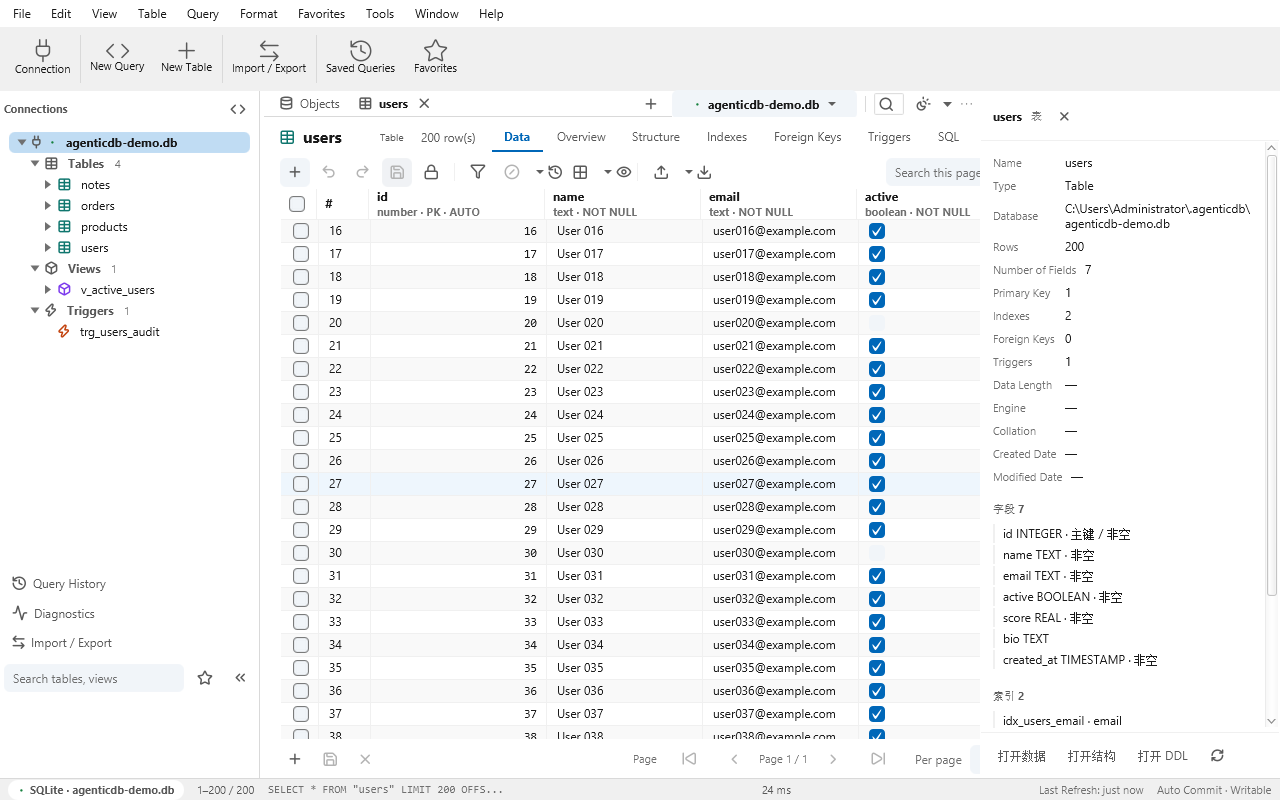
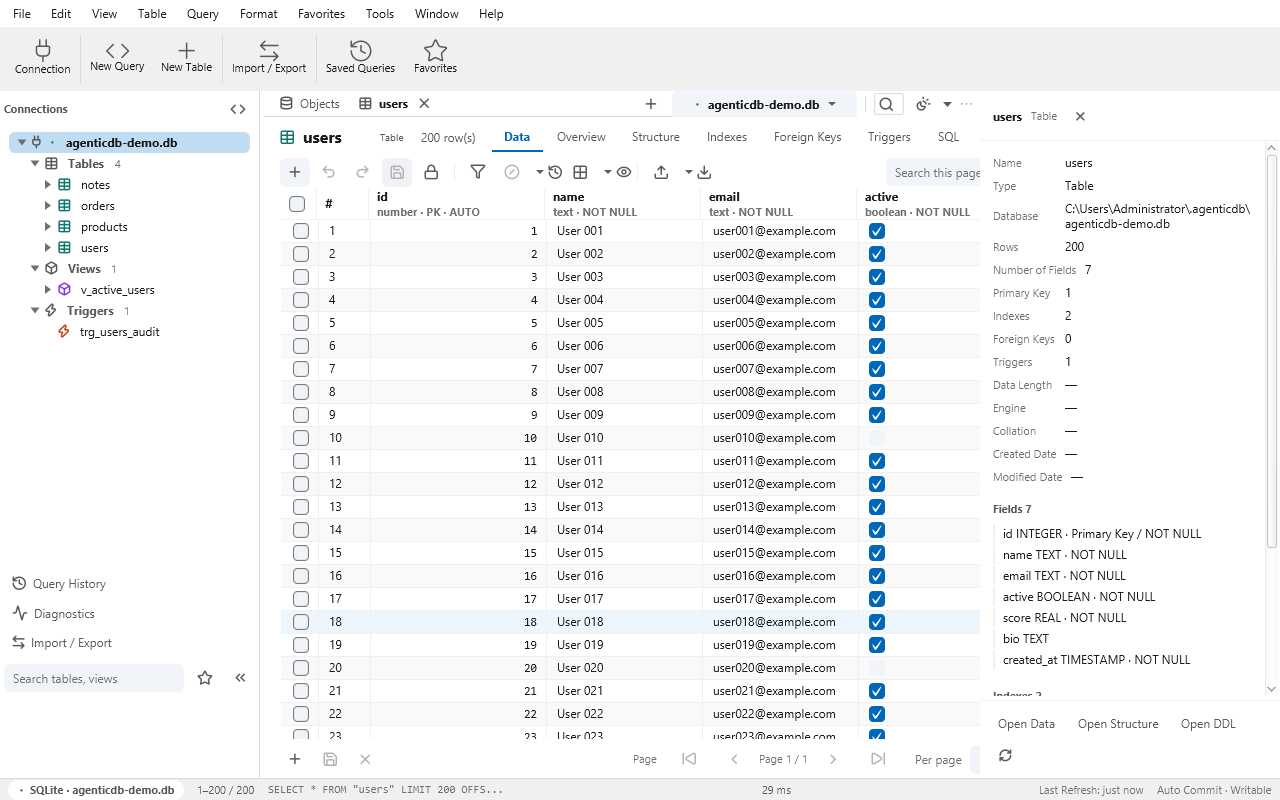
feat(ui): R34 N1-b 第十九批 —— 对象详情面板抽干净（29 → 0），棘轮 327 → 298
ObjectDetailsPanel(27) + ObjectHeader(2) 的汉字字面量全部进资源包：
新增 11 键 details.*，复用 15 个既有键（双侧全等才复用）——
类型标签走 detail.kind.table|view + object.kind.trigger|function|event + category.database，
节标题走 detail.indexes|foreignKeys|triggers + newtable.tab.fields，
动作按钮走 action.object.open-data|open-structure，标记走 detail.primaryKey + grid.head.notNull。

⭐ p2-details 实拍抓到一处英文截字：窄栏里三颗等分按钮被压成
「Open D… / Open Struct… / Open D…」—— 中文「打开数据」4 字撑得住，英文撑不住。
页脚由 HBox 改 FlowPane（装不下换行），重拍后 Open Data / Open Structure / Open DDL 全读得完。

- ObjectDetailsPanelTest 7 处 + ObjectHeaderAndTabsTest 1 处文案断言重钉为 I18n.t(...)；
- I18nAuditTest CJK_CEILING 327 → 298（实测）；
- 键数口径纠正：严格数 key 行 en/zh 各 1238（对称），此前文档口径少 1。

门禁：./mvnw -o test 实测 1180 条 / 150 组 / 134 类 / 0 失败 / 48 环境跳过。
push 仍未授权。

diff --git a/ui/adb-ui-shell/src/main/java/io/agenticdb/ui/shell/ObjectDetailsPanel.java b/ui/adb-ui-shell/src/main/java/io/agenticdb/ui/shell/ObjectDetailsPanel.java
@@ -2,12 +2,14 @@ package io.agenticdb.ui.shell;
 
 import io.agenticdb.introspect.SchemaService;
 import io.agenticdb.introspect.SchemaService.ObjectKind;
+import io.agenticdb.ui.I18n;
 import io.agenticdb.ui.Icons;
 import javafx.geometry.Insets;
 import javafx.geometry.Pos;
 import javafx.scene.control.Button;
 import javafx.scene.control.Label;
 import javafx.scene.control.ScrollPane;
+import javafx.scene.layout.FlowPane;
 import javafx.scene.layout.HBox;
 import javafx.scene.layout.Priority;
 import javafx.scene.layout.VBox;
@@ -61,17 +63,17 @@ public final class ObjectDetailsPanel extends VBox {
         }
 
         public String typeLabel() {
-            return kind == null ? "数据库" : kindLabel(kind);
+            return kind == null ? I18n.t("category.database") : kindLabel(kind);
         }
 
         private static String kindLabel(ObjectKind kind) {
             return switch (kind) {
-                case TABLE -> "表";
-                case VIEW -> "视图";
-                case TRIGGER -> "触发器";
-                case FUNCTION -> "函数";
-                case PROCEDURE -> "过程";
-                case EVENT -> "事件";
+                case TABLE -> I18n.t("detail.kind.table");
+                case VIEW -> I18n.t("detail.kind.view");
+                case TRIGGER -> I18n.t("object.kind.trigger");
+                case FUNCTION -> I18n.t("object.kind.function");
+                case PROCEDURE -> I18n.t("details.kind.procedure");
+                case EVENT -> I18n.t("object.kind.event");
             };
         }
     }
@@ -138,12 +140,12 @@ public final class ObjectDetailsPanel extends VBox {
     private final VBox notes = new VBox(4);
     // U15：动词与代码、与其他入口统一成「打开」——「查看数据 / 打开表」说的是同一件事，
     // 却给了用户两个词，让人怀疑是两个去处。
-    private final Button openData = new Button("打开数据");
-    private final Button openStructure = new Button("打开结构");
-    private final Button openDdl = new Button("打开 DDL");
+    private final Button openData = new Button(I18n.t("action.object.open-data"));
+    private final Button openStructure = new Button(I18n.t("action.object.open-structure"));
+    private final Button openDdl = new Button(I18n.t("details.openDdl"));
     private final Button refresh = new Button();
-    private final Label empty = new Label("选择左侧的一个数据库对象，在这里查看它的概况。");
-    private final Label loading = new Label("正在读取元数据…");
+    private final Label empty = new Label(I18n.t("details.empty"));
+    private final Label loading = new Label(I18n.t("details.loading"));
     private final Label error = new Label();
 
     private Loader loader = (subject, onLoaded, onError) -> onLoaded.accept(null);
@@ -179,8 +181,8 @@ public final class ObjectDetailsPanel extends VBox {
 
         close.setGraphic(Icons.of(Icons.Icon.CLOSE, Icons.SIZE_LABEL));
         close.getStyleClass().addAll("adb-icon-button", "adb-details-panel__close");
-        close.setTooltip(new javafx.scene.control.Tooltip("隐藏详情面板"));
-        close.setAccessibleText("隐藏详情面板");
+        close.setTooltip(new javafx.scene.control.Tooltip(I18n.t("details.closeTip")));
+        close.setAccessibleText(I18n.t("details.closeTip"));
         close.setOnAction(event -> setVisible(false));
 
         HBox header = new HBox(8, title, subtitle, close);
@@ -203,16 +205,16 @@ public final class ObjectDetailsPanel extends VBox {
         openDdl.setOnAction(event -> actions.openDdl(subject));
         refresh.setGraphic(Icons.of(Icons.Icon.REFRESH, Icons.SIZE_LABEL));
         refresh.getStyleClass().addAll("adb-icon-button", "adb-details-panel__refresh");
-        refresh.setTooltip(new javafx.scene.control.Tooltip("重新读取该对象的元数据"));
-        refresh.setAccessibleText("刷新对象详情");
+        refresh.setTooltip(new javafx.scene.control.Tooltip(I18n.t("details.refreshTip")));
+        refresh.setAccessibleText(I18n.t("details.refreshAccessible"));
         refresh.setOnAction(event -> reload());
 
-        HBox footer = new HBox(4, openData, openStructure, openDdl, refresh);
+        // ⭐ FlowPane 不是 HBox：英文标签比中文长一截（Open Structure vs 打开结构），
+        //    三等分的窄栏会把三颗全截成「Open D…」—— p2-details 实拍抓到。
+        //    装不下就换行，字必须读得完。
+        FlowPane footer = new FlowPane(4, 4, openData, openStructure, openDdl, refresh);
         footer.getStyleClass().add("adb-details-panel__footer");
         footer.setAlignment(Pos.CENTER_LEFT);
-        HBox.setHgrow(openData, Priority.ALWAYS);
-        HBox.setHgrow(openStructure, Priority.ALWAYS);
-        HBox.setHgrow(openDdl, Priority.ALWAYS);
 
         empty.getStyleClass().addAll("adb-details-panel__empty", "adb-muted");
         empty.setWrapText(true);
@@ -252,7 +254,7 @@ public final class ObjectDetailsPanel extends VBox {
     /** 没有选中对象：空态，操作按钮全禁用。 */
     public void showEmpty() {
         this.subject = null;
-        title.setText("对象详情");
+        title.setText(I18n.t("details.title"));
         subtitle.setText("");
         facts.getChildren().clear();
         sections.getChildren().clear();
@@ -327,10 +329,10 @@ public final class ObjectDetailsPanel extends VBox {
                 || !snapshot.indexes().isEmpty() || !snapshot.foreignKeys().isEmpty()
                 || !snapshot.triggers().isEmpty() || !snapshot.recent().isEmpty();
         if (hasContent) {
-            addSection("字段", snapshot.columns());
-            addSection("索引", snapshot.indexes());
-            addSection("外键", snapshot.foreignKeys());
-            addSection("触发器", snapshot.triggers());
+            addSection(I18n.t("newtable.tab.fields"), snapshot.columns());
+            addSection(I18n.t("detail.indexes"), snapshot.indexes());
+            addSection(I18n.t("detail.foreignKeys"), snapshot.foreignKeys());
+            addSection(I18n.t("detail.triggers"), snapshot.triggers());
             // ⭐ P2-3：对象一级始终给「最近操作」一节 —— 没有记录时说明「还没有」，
             //    而不是整节消失，否则用户永远不知道这里能看按表的执行历史。
             if (snapshot.subject().isObject()) {
@@ -351,7 +353,7 @@ public final class ObjectDetailsPanel extends VBox {
     }
 
     public void showError(String message) {
-        error.setText(message == null || message.isBlank() ? "读取元数据失败" : message);
+        error.setText(message == null || message.isBlank() ? I18n.t("details.readFailed") : message);
         error.setVisible(true);
         error.setManaged(true);
     }
@@ -394,12 +396,13 @@ public final class ObjectDetailsPanel extends VBox {
     }
 
     private void addRecentSection(List<String> items) {
-        Label heading = new Label(items.isEmpty() ? "最近操作" : "最近操作 " + items.size());
+        String recentTitle = I18n.t("grid.overview.recent");
+        Label heading = new Label(items.isEmpty() ? recentTitle : recentTitle + " " + items.size());
         heading.getStyleClass().add("adb-details-panel__section-title");
         VBox list = new VBox(2);
         list.getStyleClass().add("adb-details-panel__list");
         if (items.isEmpty()) {
-            Label none = new Label("还没有执行过针对该对象的 SQL。");
+            Label none = new Label(I18n.t("details.recent.none"));
             none.getStyleClass().addAll("adb-details-panel__list-item", "adb-muted");
             none.setWrapText(true);
             list.getChildren().add(none);
@@ -424,10 +427,10 @@ public final class ObjectDetailsPanel extends VBox {
         }
         List<String> marks = new ArrayList<>();
         if (primaryKey) {
-            marks.add("主键");
+            marks.add(I18n.t("detail.primaryKey"));
         }
         if (!nullable) {
-            marks.add("非空");
+            marks.add(I18n.t("grid.head.notNull"));
         }
         if (!marks.isEmpty()) {
             line.append(" · ").append(String.join(" / ", marks));

diff --git a/ui/adb-ui-shell/src/test/java/io/agenticdb/ui/shell/ObjectDetailsPanelTest.java b/ui/adb-ui-shell/src/test/java/io/agenticdb/ui/shell/ObjectDetailsPanelTest.java
@@ -2,6 +2,7 @@ package io.agenticdb.ui.shell;
 
 import io.agenticdb.introspect.SchemaService;
 import io.agenticdb.introspect.SchemaService.ObjectKind;
+import io.agenticdb.ui.I18n;
 import org.junit.jupiter.api.Test;
 import org.junit.jupiter.api.extension.ExtendWith;
 import org.testfx.framework.junit5.ApplicationExtension;
@@ -191,7 +192,7 @@ class ObjectDetailsPanelTest {
         WaitForAsyncUtils.waitForFxEvents();
 
         assertThat(textsOf(withClass(panel, "adb-details-panel__section-title")))
-                .contains("最近操作 1");
+                .contains(I18n.t("grid.overview.recent") + " 1");
         assertThat(textsOf(withClass(panel, "adb-details-panel__list-item")))
                 .contains("11:20 · SELECT * FROM users;");
 
@@ -202,9 +203,9 @@ class ObjectDetailsPanelTest {
         WaitForAsyncUtils.asyncFx(() -> fresh.showObject(USERS)).get();
         WaitForAsyncUtils.waitForFxEvents();
         assertThat(textsOf(withClass(fresh, "adb-details-panel__section-title")))
-                .contains("最近操作");
+                .contains(I18n.t("grid.overview.recent"));
         assertThat(textsOf(withClass(fresh, "adb-details-panel__list-item")))
-                .anyMatch(text -> text.contains("还没有执行过"));
+                .anyMatch(text -> text.equals(I18n.t("details.recent.none")));
     }
 
     // ─────────────────────────── 切换对象不串内容 ───────────────────────────    @Test
@@ -274,12 +275,12 @@ class ObjectDetailsPanelTest {
         WaitForAsyncUtils.asyncFx(() -> panel.showObject(connection)).get();
         WaitForAsyncUtils.waitForFxEvents();
 
-        assertThat(connection.typeLabel()).isEqualTo("数据库");
+        assertThat(connection.typeLabel()).isEqualTo(I18n.t("category.database"));
         assertThat(withClass(panel, "adb-details-panel__empty")).isEmpty();
         // 连接没有「打开数据 / 打开结构」—— 这两个按钮必须是禁用的。
         assertThat(buttons(panel).stream()
-                .filter(button -> "打开数据".equals(button.getText())
-                        || "打开结构".equals(button.getText()))
+                .filter(button -> I18n.t("action.object.open-data").equals(button.getText())
+                        || I18n.t("action.object.open-structure").equals(button.getText()))
                 .allMatch(javafx.scene.control.Button::isDisable)).isTrue();
     }
 
@@ -288,7 +289,8 @@ class ObjectDetailsPanelTest {
     @Test
     void columnLineMarksPrimaryKeyAndNotNull() {
         assertThat(ObjectDetailsPanel.columnLine("id", "INTEGER", true, false))
-                .isEqualTo("id INTEGER · 主键 / 非空");
+                .isEqualTo("id INTEGER · " + I18n.t("detail.primaryKey")
+                        + " / " + I18n.t("grid.head.notNull"));
         assertThat(ObjectDetailsPanel.columnLine("bio", "TEXT", false, true))
                 .isEqualTo("bio TEXT");
         // 可空、无类型的列 → 只有名字，不补任何装饰。
@@ -311,7 +313,7 @@ class ObjectDetailsPanelTest {
             assertThat(subject.typeLabel()).isNotBlank();
         }
         assertThat(ObjectDetailsPanel.Subject.connection("demo", "db").typeLabel())
-                .isEqualTo("数据库");
+                .isEqualTo(I18n.t("category.database"));
     }
 
     @Test

diff --git a/ui/adb-ui-shell/src/main/java/io/agenticdb/ui/shell/ObjectHeader.java b/ui/adb-ui-shell/src/main/java/io/agenticdb/ui/shell/ObjectHeader.java
@@ -1,5 +1,6 @@
 package io.agenticdb.ui.shell;
 
+import io.agenticdb.ui.I18n;
 import io.agenticdb.ui.Icons;
 import javafx.geometry.Insets;
 import javafx.geometry.Pos;
@@ -59,7 +60,7 @@ public final class ObjectHeader extends HBox {
         type.setTooltip(new Tooltip(typeLabel));
 
         count.getStyleClass().add("adb-object-header__count");
-        count.setText("行数未知");
+        count.setText(I18n.t("details.rows.unknown"));
 
         context.getStyleClass().addAll("adb-muted", "adb-object-header__context");
 
@@ -113,7 +114,7 @@ public final class ObjectHeader extends HBox {
      * @param text 已知的记录数文案（「200 行」）；传 null 显示「行数未知」。
      */
     public void setCount(String text) {
-        count.setText(text == null || text.isBlank() ? "行数未知" : text);
+        count.setText(text == null || text.isBlank() ? I18n.t("details.rows.unknown") : text);
     }
 
     /**

diff --git a/ui/adb-ui-shell/src/test/java/io/agenticdb/ui/shell/ObjectHeaderAndTabsTest.java b/ui/adb-ui-shell/src/test/java/io/agenticdb/ui/shell/ObjectHeaderAndTabsTest.java
@@ -1,5 +1,6 @@
 package io.agenticdb.ui.shell;
 
+import io.agenticdb.ui.I18n;
 import io.agenticdb.ui.Icons;
 import javafx.scene.Scene;
 import javafx.scene.control.Button;
@@ -67,7 +68,7 @@ class ObjectHeaderAndTabsTest {
         robot.interact(() -> {
             header.setCount(null);
             assertThat(((Label) header.lookup(".adb-object-header__count")).getText())
-                    .isEqualTo("行数未知");
+                    .isEqualTo(I18n.t("details.rows.unknown"));
             header.setCount("200 行");
             assertThat(((Label) header.lookup(".adb-object-header__count")).getText())
                     .isEqualTo("200 行");

diff --git a/ui/adb-ui-shell/src/test/java/io/agenticdb/ui/shell/I18nAuditTest.java b/ui/adb-ui-shell/src/test/java/io/agenticdb/ui/shell/I18nAuditTest.java
@@ -73,7 +73,7 @@ class I18nAuditTest {
      * 而本类是先 {@code stripComments} 再计数。口径不同的两个数放在一起，
      * 只会让人以为棘轮又涨了。
      */
-    private static final int CJK_CEILING = 327;
+    private static final int CJK_CEILING = 298;
 
     /**
      * ⭐ R34 N1-b 第七批补的第三把尺：<b>模型层</b>（core / workbench）的汉字字面量。
